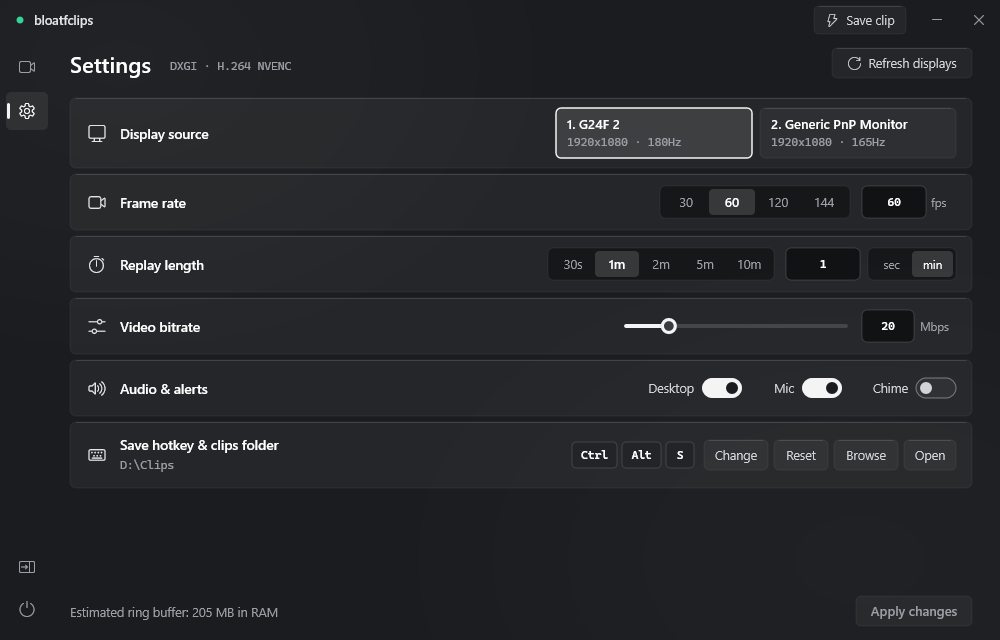
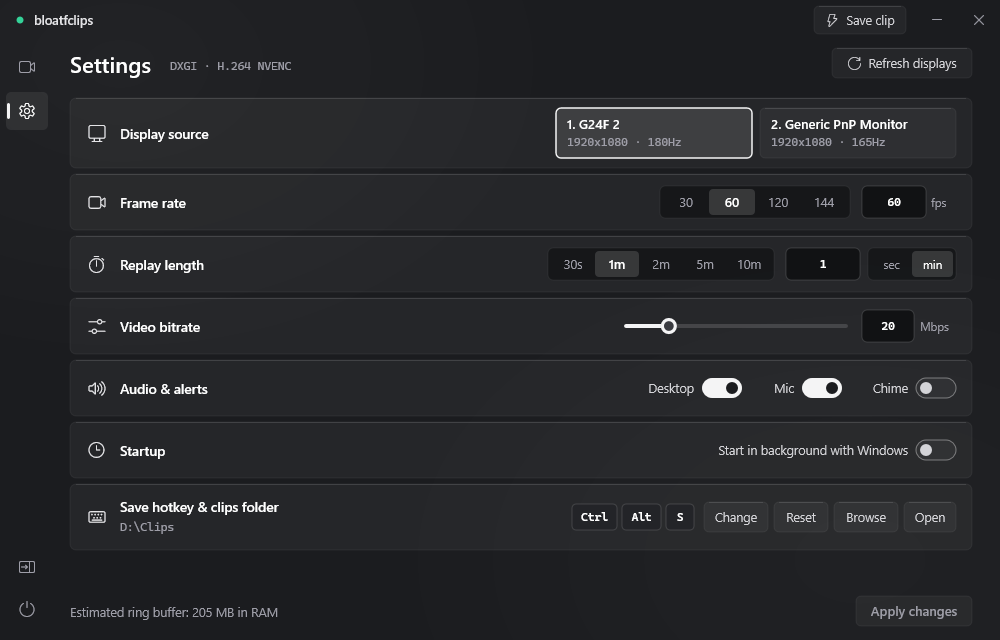
Add "Start in background with Windows" switch to Settings
A new Startup row toggles the HKCU Run entry ("bloatfclips.exe" --tray)
on Apply. It shares the value name with the installer's autostart task,
so the switch, the installer checkbox and the uninstaller manage the same
entry, and it works for the portable ZIP too. The switch reads as on only
when the entry points at the running exe; the state is never stored in
clipper.ini.

diff --git a/src/main.cpp b/src/main.cpp
@@ -165,9 +165,47 @@ void WireSaveCallback(AppState& app) {
     });
 }
 
+// Windows sign-in autostart lives in HKCU\...\Run under the same value name the installer writes,
+// so the Settings switch, the installer checkbox and the uninstaller all manage one entry.
+constexpr wchar_t kRunKey[] = L"Software\\Microsoft\\Windows\\CurrentVersion\\Run";
+
+std::wstring AutostartCommand() {
+    wchar_t exePath[MAX_PATH] = {};
+    DWORD n = GetModuleFileNameW(nullptr, exePath, MAX_PATH);
+    if (n == 0 || n >= MAX_PATH) return {};
+    return L"\"" + std::wstring(exePath, n) + L"\" --tray";
+}
+
+// On only when the entry starts this exe; an entry for another copy (e.g. installed vs. portable)
+// reads as off, and turning the switch on repoints it here.
+bool IsAutostartEnabled() {
+    wchar_t buf[1024] = {};
+    DWORD size = sizeof(buf);
+    if (RegGetValueW(HKEY_CURRENT_USER, kRunKey, clipper::kAppName, RRF_RT_REG_SZ, nullptr, buf, &size) != ERROR_SUCCESS) {
+        return false;
+    }
+    return _wcsicmp(buf, AutostartCommand().c_str()) == 0;
+}
+
+bool SetAutostartEnabled(bool enabled) {
+    if (!enabled) {
+        LSTATUS st = RegDeleteKeyValueW(HKEY_CURRENT_USER, kRunKey, clipper::kAppName);
+        return st == ERROR_SUCCESS || st == ERROR_FILE_NOT_FOUND;
+    }
+    std::wstring cmd = AutostartCommand();
+    if (cmd.empty()) return false;
+    return RegSetKeyValueW(HKEY_CURRENT_USER, kRunKey, clipper::kAppName, REG_SZ, cmd.c_str(),
+        static_cast<DWORD>((cmd.size() + 1) * sizeof(wchar_t))) == ERROR_SUCCESS;
+}
+
 bool ApplyNewConfig(AppState& app, clipper::AppConfig nextCfg, std::wstring& feedbackOut, bool& isErrOut) {
     std::vector<std::string> warnings;
     clipper::ValidateAppConfig(nextCfg, warnings);
+
+    if (nextCfg.startWithWindows != app.config.startWithWindows && !SetAutostartEnabled(nextCfg.startWithWindows)) {
+        nextCfg.startWithWindows = app.config.startWithWindows;
+        warnings.push_back("could not change the Windows startup entry");
+    }
 
     bool needsRestart = !app.engine ||
         nextCfg.monitorIndex != app.config.monitorIndex ||
@@ -420,6 +458,7 @@ int WINAPI wWinMain(HINSTANCE hInst, HINSTANCE, PWSTR, int) {
     AppState app;
     app.hInst = hInst;
     app.config = cliParsed.config;
+    app.config.startWithWindows = IsAutostartEnabled();
     app.taskbarCreatedMsg = RegisterWindowMessageW(L"TaskbarCreated");
     app.showSettingsMsg = showSettingsMsg;
     app.trayIcon = CreateRecorderTrayIcon();

diff --git a/src/settings_window.cpp b/src/settings_window.cpp
@@ -94,6 +94,7 @@ bool ConfigsEqual(const AppConfig& a, const AppConfig& b) {
            a.recordDesktopAudio == b.recordDesktopAudio &&
            a.recordMicAudio == b.recordMicAudio &&
            a.saveChime == b.saveChime &&
+           a.startWithWindows == b.startWithWindows &&
            a.hotkeySave == b.hotkeySave &&
            a.outputDirRaw == b.outputDirRaw;
 }
@@ -1372,6 +1373,17 @@ void SettingsWindow::DrawSettingsTab(float contentX, float contentW, float& yCur
     }
     y += rowH + gap;
 
+    drawRowHeader(y, rowH, L"", L"Startup");
+    {
+        D2D1_RECT_F togR = D2D1::RectF(rightEdge - 40.0f, y + 18.0f, rightEdge, y + 38.0f);
+        HitKey tk{ HitAction::ToggleStartWithWindows, 0 };
+        DrawToggleSwitch(togR, editedCfg_.startWithWindows, hoveredHit_ == tk);
+        D2D1_RECT_F lblR = D2D1::RectF(togR.left - 260.0f, y, togR.left - 8.0f, y + rowH);
+        DrawTextLine(L"Start in background with Windows", fmtBody_.Get(), lblR, kColTextSec, DWRITE_TEXT_ALIGNMENT_TRAILING);
+        hitTargets_.push_back({ D2D1::RectF(lblR.left, y + 8.0f, togR.right, y + rowH - 8.0f), tk, true });
+    }
+    y += rowH + gap;
+
     float row6H = 66.0f;
     DrawFluentSurface(D2D1::RectF(contentX, y, contentX + contentW, y + row6H), 6.0f, false, false);
     DrawGlyph(L"\uE765", 17.0f, D2D1::RectF(contentX + 16.0f, y, contentX + 38.0f, y + row6H), C(0xE4E4E7));
@@ -1800,6 +1812,10 @@ void SettingsWindow::ExecuteHit(const HitKey& key, float dipX) {
             break;
         case HitAction::ToggleChime:
             editedCfg_.saveChime = !editedCfg_.saveChime;
+            InvalidateWindow();
+            break;
+        case HitAction::ToggleStartWithWindows:
+            editedCfg_.startWithWindows = !editedCfg_.startWithWindows;
             InvalidateWindow();
             break;
         case HitAction::HotkeyCaptureBtn:

diff --git a/src/config.h b/src/config.h
@@ -38,6 +38,8 @@ struct AppConfig {
     std::string outputDirRaw = "%USERPROFILE%\\Videos\\Clips";
     std::wstring outputDir;
     bool saveChime = true;
+    // Mirrors the HKCU Run entry (shared with the installer); never stored in clipper.ini.
+    bool startWithWindows = false;
 
     size_t VideoArenaBytes() const;
     size_t VideoMaxSlots() const;

diff --git a/src/settings_window.h b/src/settings_window.h
@@ -93,6 +93,7 @@ private:
         ToggleDesktopAudio,
         ToggleMicAudio,
         ToggleChime,
+        ToggleStartWithWindows,
         HotkeyCaptureBtn,
         HotkeyResetBtn,
         BrowseFolder,

diff --git a/README.md b/README.md
@@ -56,13 +56,13 @@ bloatfclips starts recording right away. Its icon appears in the system tray and
 
 ### Portable (ZIP)
 
-Prefer no installer? Download `bloatfclips-<version>-portable.zip` from the Releases page, unzip it anywhere you can write to (for example `Documents`), and run `bloatfclips.exe`. Settings are saved next to the exe. To remove it, exit bloatfclips from the tray and delete the folder.
+Prefer no installer? Download `bloatfclips-<version>-portable.zip` from the Releases page, unzip it anywhere you can write to (for example `Documents`), and run `bloatfclips.exe`. Settings are saved next to the exe. To start it with Windows, turn on **Settings → Startup**. To remove it, turn that switch off, exit bloatfclips from the tray, and delete the folder.
 
 ## Using bloatfclips
 
 ### Window
 
-The **Settings** page (screenshot above) changes the monitor, frame rate, replay length, bitrate, audio sources, save hotkey, and clips folder. Changes take effect when you click **Apply changes**. The footer shows how much RAM the replay buffer may use at most.
+The **Settings** page (screenshot above) changes the monitor, frame rate, replay length, bitrate, audio sources, startup, save hotkey, and clips folder. Changes take effect when you click **Apply changes**. The footer shows how much RAM the replay buffer may use at most.
 
 The **Clips** page lists up to 48 recent clips from the clips folder. Click a thumbnail to play it.
 
@@ -91,7 +91,7 @@ Closing the window hides bloatfclips to the tray and keeps recording. Launching 
 | `--fail-fast` | Exit with code `2` if capture cannot start |
 | `--ready-event=NAME` | Signal a named Win32 event once capture is running (for scripts and benchmarks) |
 
-The installer's autostart option runs `bloatfclips.exe --tray` at sign-in.
+**Start in background with Windows** (Settings → Startup) runs `bloatfclips.exe --tray` when you sign in. It works for both the installer and the portable ZIP. The installer's autostart checkbox sets the same switch.
 
 ## Configuration
 
